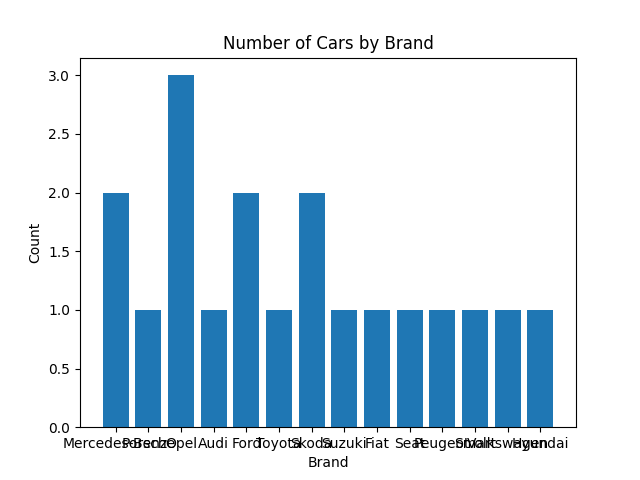
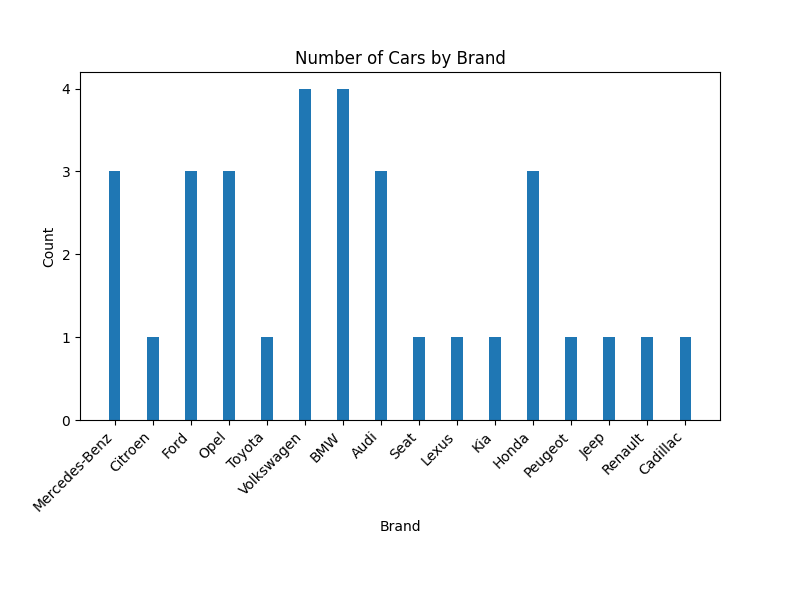
idk

Changed region(s): [[0.0312, 0.0625, 0.9062, 0.9688]]

diff --git a/mybot.py b/mybot.py
@@ -3,6 +3,7 @@ from discord.ext import commands
 from single_page import scrapeOlx
 from ad_links import get_ad_links
 import matplotlib.pyplot as plt
+import matplotlib.ticker as ticker
 from collections import Counter
 import networkx as nx
 import os
@@ -23,9 +24,12 @@ async def on_ready():
 @bot.command(name="help")
 async def bot_help(ctx):
     embed = discord.Embed(title='Bot Help', description='List of available commands:', color=discord.Color.blue())
+    embed.set_image(url="https://cdn.discordapp.com/attachments/1090484337897648178/1109444270261284934/logov2.png")
     embed.add_field(name='/olx', value='Scraps the olx', inline=False)
     embed.add_field(name='/otomoto', value='Scraps otomoto', inline=False)
     # Add more fields for other commands
+
+
 
     await ctx.send(embed=embed)
 
@@ -68,10 +72,8 @@ async def _scrape_otomoto(ctx):
 
             embed = discord.Embed(title=title, description=description.strip())
             embed.add_field(name="Ad Link:", value=item['ad_link'])
+            # embed.set_image(url=item['src'])  # Add the image using the src value
             await ctx.send(embed=embed)
-        else:
-            await ctx.send("Invalid ad data.")
-
 
 @bot.command(name='olxchart')
 async def scrape_olxchart(ctx):
@@ -79,7 +81,7 @@ async def scrape_olxchart(ctx):
     links = get_ad_links()
     data = []
     for link in links:
-        brand, model, year, mileage, engine_size, fuel_type, horse_power = scrapeOlx(link)
+        brand, model, year, mileage, engine_size, fuel_type, horse_power, price, img = scrapeOlx(link)
         data.append((brand, model, year, mileage, engine_size, fuel_type, horse_power))
 
     # Get a list of all the brands
@@ -88,13 +90,28 @@ async def scrape_olxchart(ctx):
     # Count the number of cars by brand
     brand_counts = Counter(brands)
 
+    # Create a larger figure to accommodate all the bars
+    num_brands = len(brand_counts)
+    min_bar_width = 0.3  # Minimum width of the bars
+    bar_width = max(min_bar_width, 0.8 / num_brands)
+    figsize_width = max(8, num_brands * bar_width * 1.5)  # Minimum width of 8 inches
+    plt.figure(figsize=(figsize_width, 6))
+    plt.subplots_adjust(bottom=0.3, left=0.1)  # Adjust margins
+
     # Create a bar chart
-    plt.bar(brand_counts.keys(), brand_counts.values())
+    plt.bar(brand_counts.keys(), brand_counts.values(), width=bar_width)
 
     # Set the title and axis labels
     plt.title('Number of Cars by Brand')
     plt.xlabel('Brand')
     plt.ylabel('Count')
+
+    # Rotate and align the X-axis tick labels
+    plt.xticks(rotation=45, ha='right')
+
+    # Set the Y-axis tick formatter to show only whole numbers
+    ax = plt.gca()
+    ax.yaxis.set_major_locator(ticker.MaxNLocator(integer=True))
 
     # Save the plot to a file
     plt.savefig('bar_chart.png')
@@ -114,7 +131,7 @@ async def scrape_olxscatter(ctx):
     links = get_ad_links()
     data = []
     for link in links:
-        brand, model, year, mileage, engine_size, fuel_type, horse_power = scrapeOlx(link)
+        brand, model, year, mileage, engine_size, fuel_type, horse_power, price, img = scrapeOlx(link)
         data.append((brand, model, year, mileage, engine_size, fuel_type, horse_power))
 
     # Get a list of all the mileage and year values
@@ -147,7 +164,7 @@ async def scrape_olxnetwork(ctx):
     links = get_ad_links()
     data = []
     for link in links:
-        brand, model, year, mileage, engine_size, fuel_type, horse_power = scrapeOlx(link)
+        brand, model, year, mileage, engine_size, fuel_type, horse_power, price, img = scrapeOlx(link)
         data.append((brand, model, year, mileage, engine_size, fuel_type, horse_power))
 
         # Create a directed graph

diff --git a/otomoto.py b/otomoto.py
@@ -1,6 +1,7 @@
 import requests
 from bs4 import BeautifulSoup
 
+
 def _get_ad_links(url):
     response = requests.get(url)
     soup = BeautifulSoup(response.content, 'html.parser')
@@ -10,6 +11,7 @@ def _get_ad_links(url):
     links = [element.find('h2', {'data-testid': 'ad-title'}).a['href'] for element in elements]
 
     return links
+
 
 def scrape_ad(url):
     response = requests.get(url)
@@ -32,7 +34,7 @@ def scrape_ad(url):
         .find('div', {'class': 'offer-params with-vin'})
 
     price = primary_child_div.find('span', {'class': 'offer-price__number'}).text.strip()
-    word_to_remove = "       PLN"
+    word_to_remove = " PLN"
     price = price.replace(word_to_remove, "")
     price = price + "PLN"
 
@@ -74,6 +76,7 @@ def scrape_ad(url):
 
     return data
 
+
 def scrape_otomoto():
     url_template = 'https://www.otomoto.pl/osobowe?page={}'
     data = []
@@ -84,7 +87,6 @@ def scrape_otomoto():
 
         for link in links:
             ad_data = scrape_ad(link)
-            if all(value for value in ad_data.values()):
-                data.append(ad_data)
+            data.append(ad_data)
 
     return data

diff --git a/img_test.py b/img_test.py
@@ -1,0 +1,10 @@
+import requests
+from bs4 import BeautifulSoup
+
+html = '<img class="bigImage landscape" data-nr="0" data-tracking="gallery_open" onload="(this.className+=this.clientWidth>this.clientHeight?\' landscape\':\' portrait\')" alt="Opel Mokka Innovation 1.7ctdi Automat Xenon Wyposażona Opłacona - 1" src="https://ireland.apollo.olxcdn.com/v1/files/eyJmbiI6ImFoa2V4c2Q5c2o1OS1PVE9NT1RPUEwiLCJ3IjpbeyJmbiI6IndnNGducXA2eTFmLU9UT01PVE9QTCIsInMiOiIxNiIsInAiOiIxMCwtMTAiLCJhIjoiMCJ9XX0.PxmswA0ajpcMzcADf2OiME9vWXvaMuFxRHjbSCxlAs0/image;s=1080x720" style="opacity: 1;">'
+start = html.find('src="') + len('src="')
+end = html.find('"', start)
+img_url = html[start:end]
+print(img_url)
+
+
